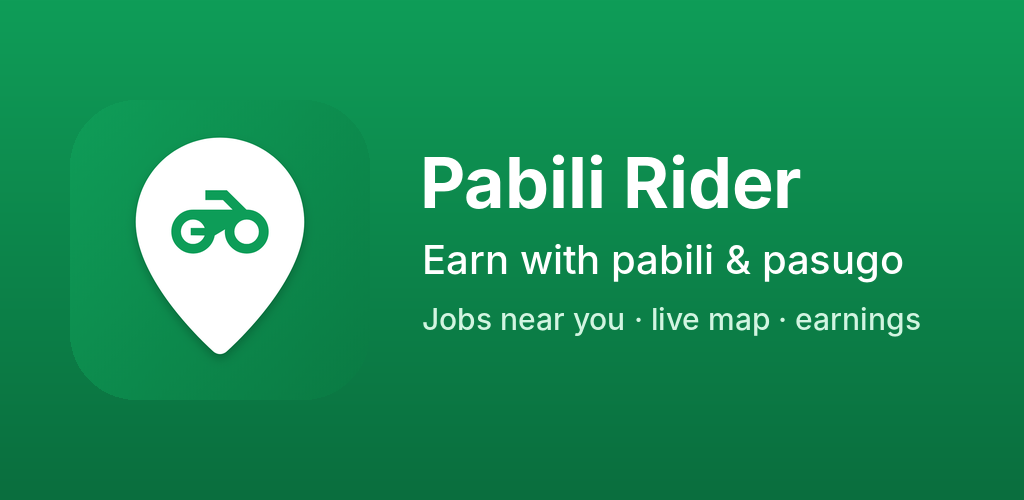
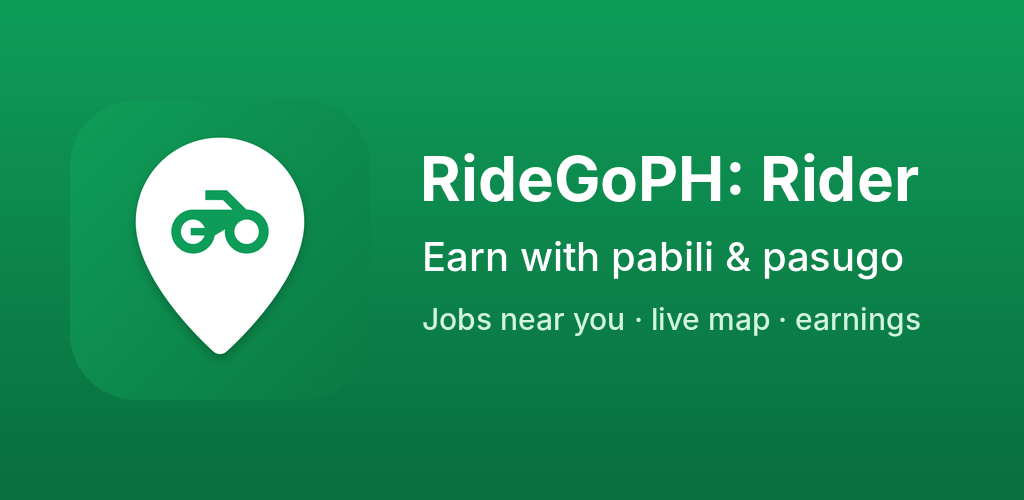
Rider store name: RideGoPH: Rider (listing text and feature graphic)
Claude-Session: https://claude.ai/code/session_017tHqMcuUDg6TqPfDbSMBF8

Changed region(s): [[0.4062, 0.3, 0.9062, 0.42], [0.4062, 0.48, 0.875, 0.57]]

diff --git a/docs/STORE_LAUNCH.md b/docs/STORE_LAUNCH.md
@@ -107,7 +107,7 @@ Searches are cached per ~1 km area for a day. Check usage in Google Cloud → Bi
   > Questions? ridegopabiliapp@gmail.com
 
 ### Pabili Rider
-- **Name**: Pabili Rider
+- **Name (store listing)**: RideGoPH: Rider — same on the App Store and Google Play (the name under the icon on the phone stays "Pabili Rider")
 - **Subtitle**: Earn with pabili & pasugo
 - **Short description**: Take pabili and pasugo jobs near you, navigate, and track your earnings.
 - **Category**: Business (iOS) / Maps & Navigation or Business (Play)
